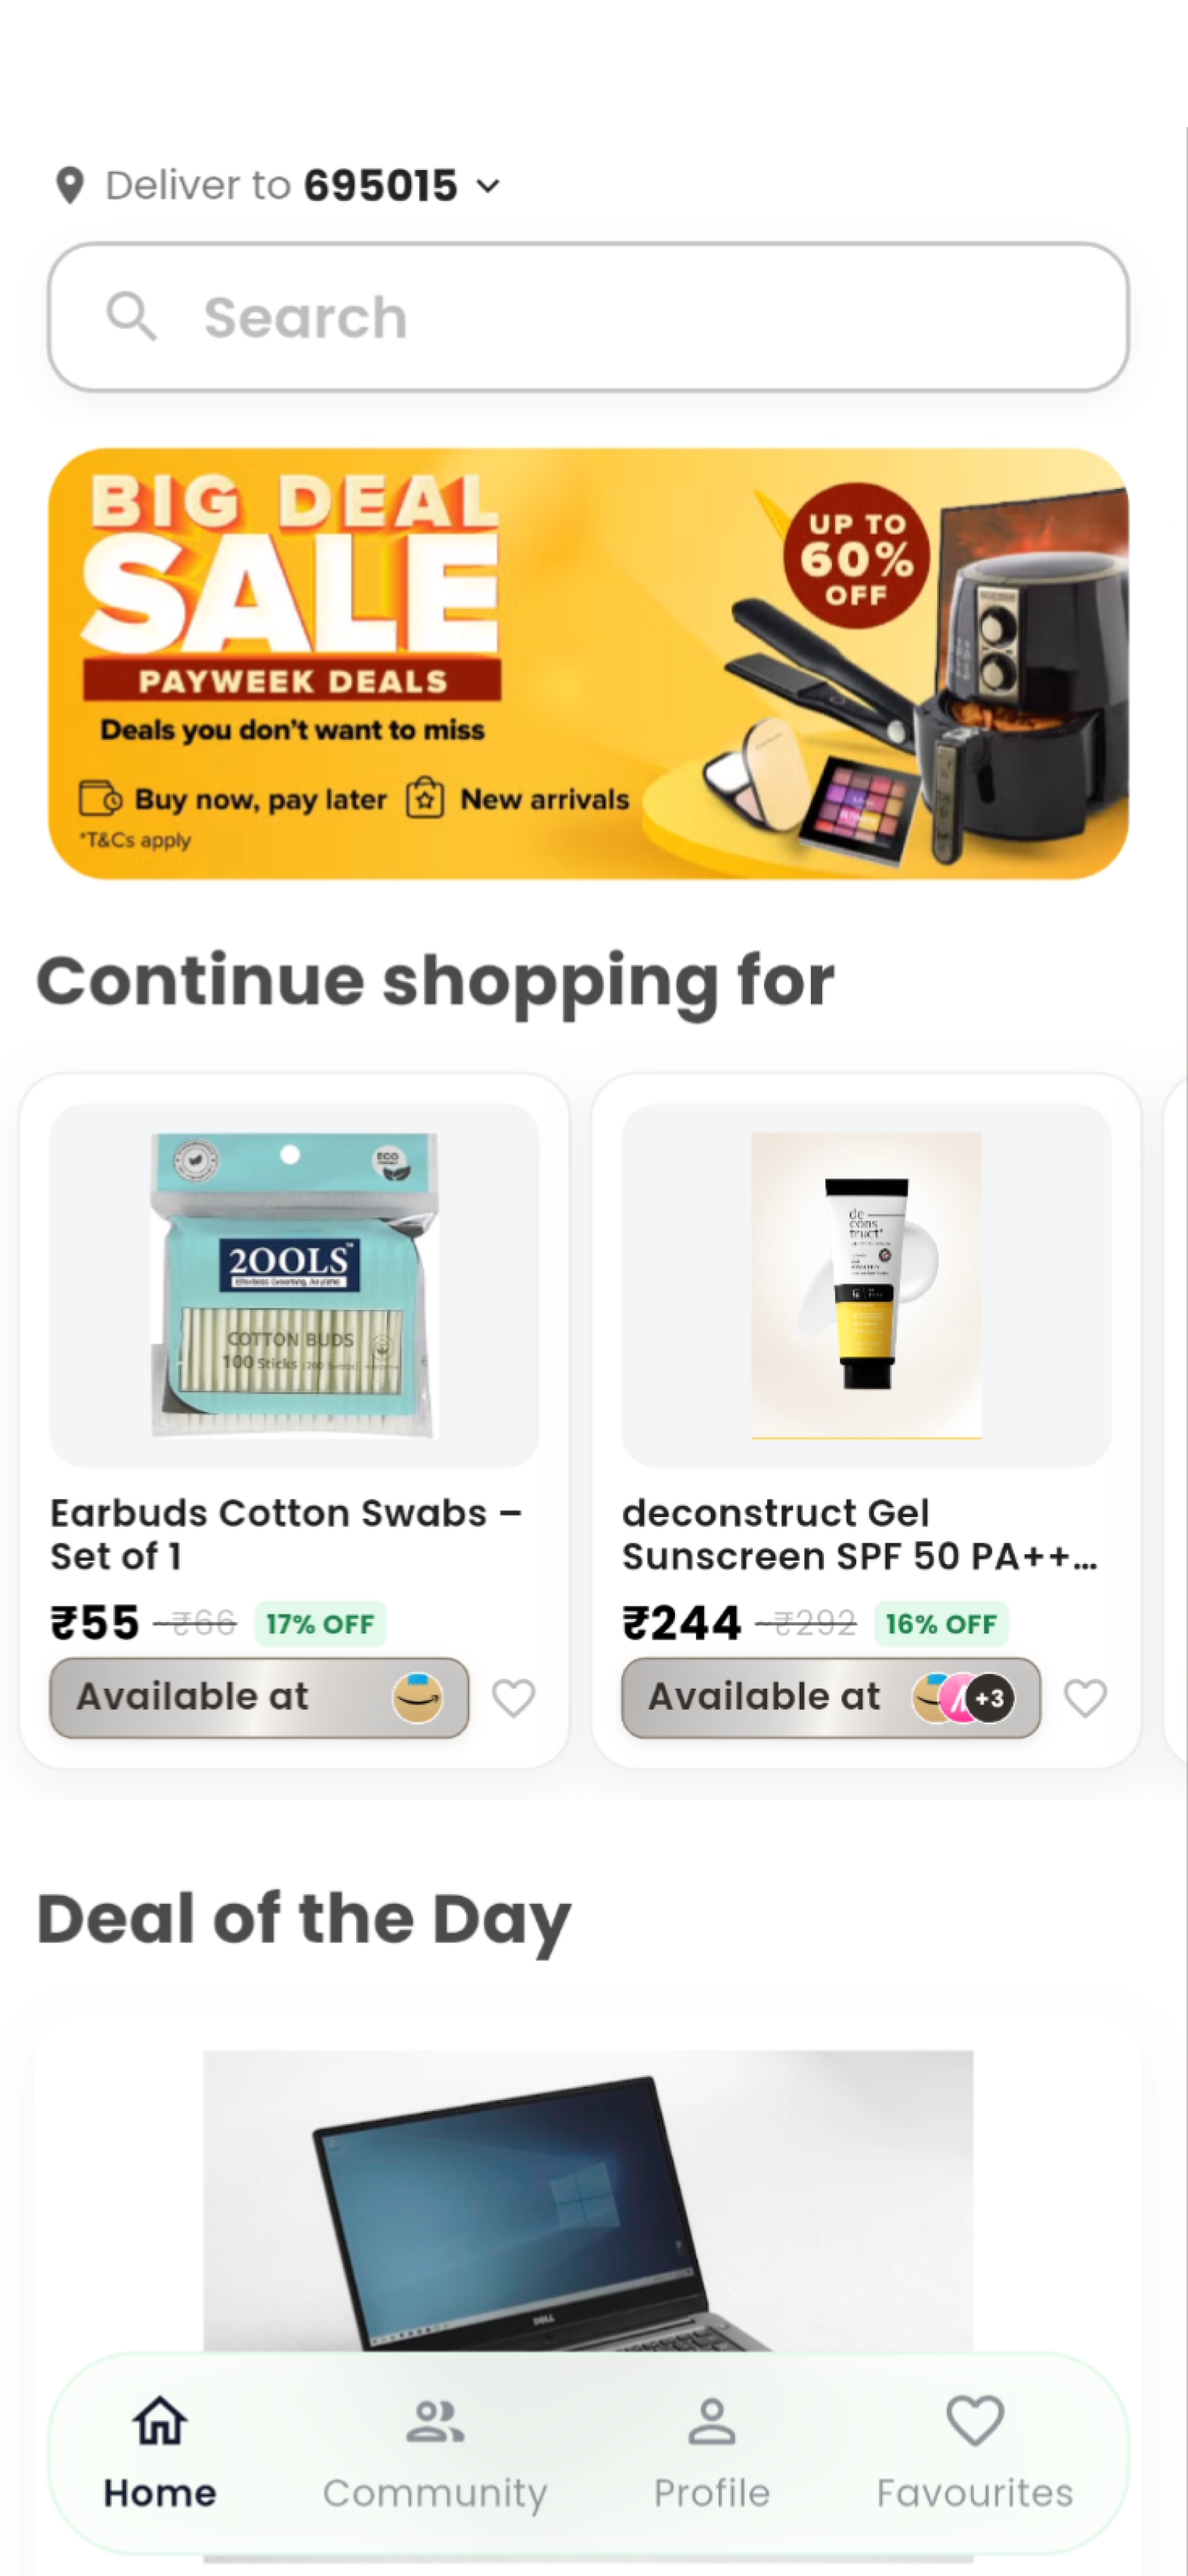
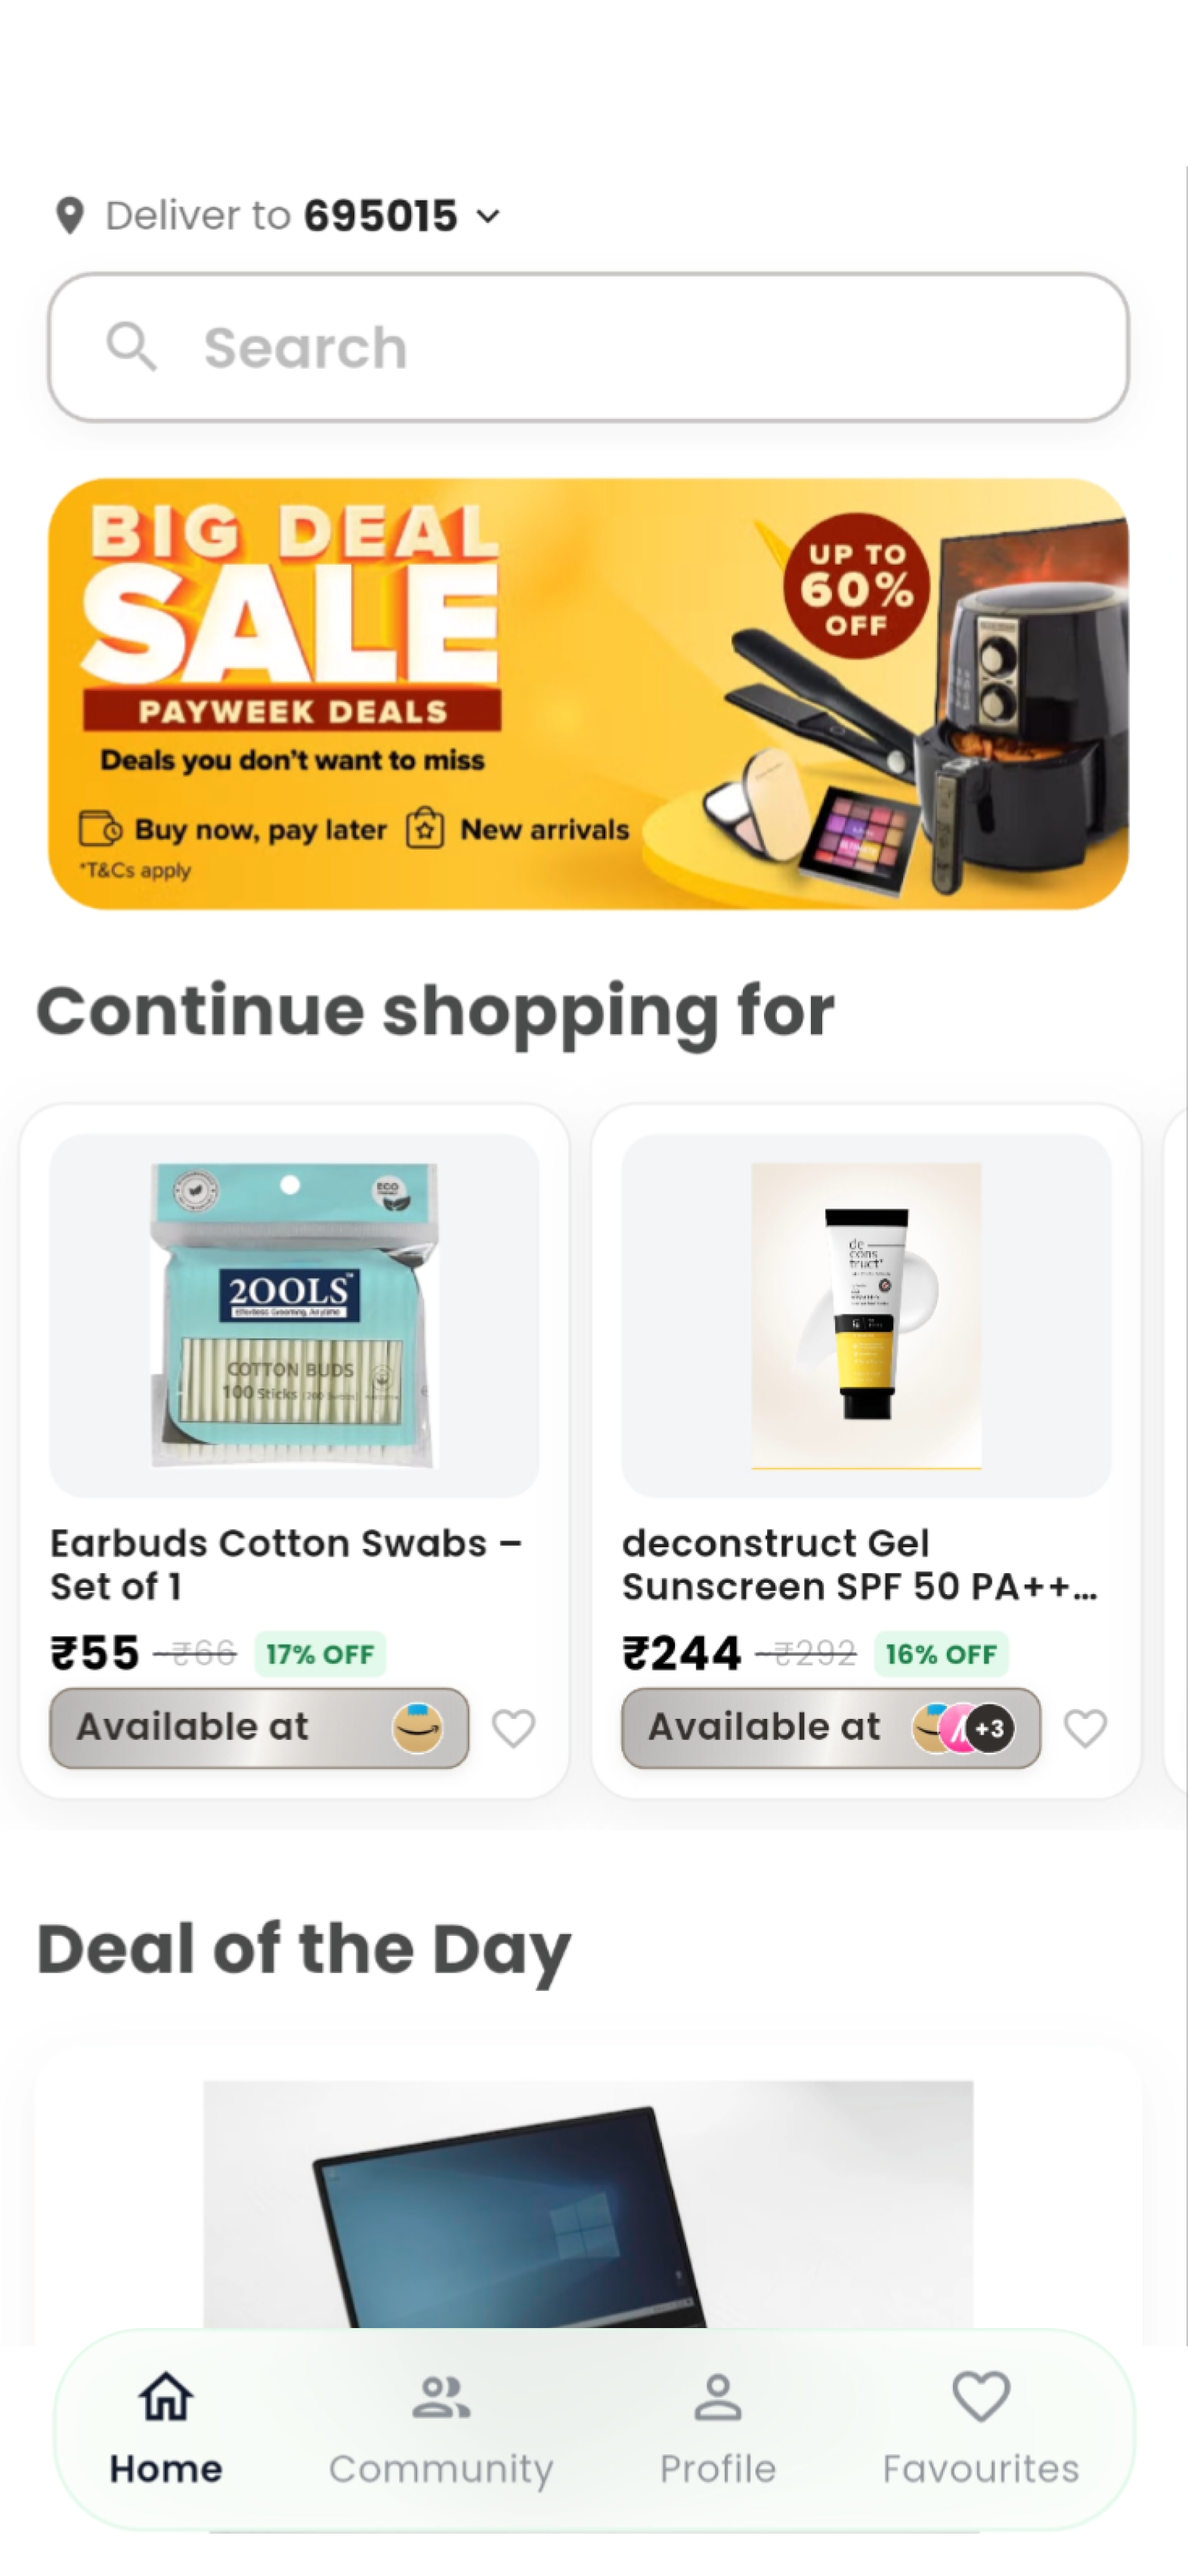
feat: streamline advantages table to 5 core capability rows and update fashion coverage description

diff --git a/index.html b/index.html
@@ -387,32 +387,6 @@
                         </tr>
                         <tr>
                             <td class="feature-name">
-                                AI Spec Verification
-                                <span class="feature-sub">e.g., matching 256GB vs 128GB, volume ml</span>
-                            </td>
-                            <td class="highlight-cell">
-                                <span class="check-icon">✓</span> <strong>Yes</strong>
-                                <span class="cell-detail">Gemini LLM + Embeddings</span>
-                            </td>
-                            <td>
-                                <span class="cross-icon">✕</span> <strong>No</strong>
-                                <span class="cell-detail">Rule-based regex / manual</span>
-                            </td>
-                            <td>
-                                <span class="partial-icon">⚠</span> <strong>Inconsistent</strong>
-                                <span class="cell-detail">Merchant feed dependent</span>
-                            </td>
-                            <td>
-                                <span class="cross-icon">✕</span> <strong>No</strong>
-                                <span class="cell-detail">ASIN / URL-level only</span>
-                            </td>
-                            <td>
-                                <span class="cross-icon">✕</span> <strong>N/A</strong>
-                                <span class="cell-detail">Single catalog only</span>
-                            </td>
-                        </tr>
-                        <tr>
-                            <td class="feature-name">
                                 Real-Time Cross-Store Search
                             </td>
                             <td class="highlight-cell">
@@ -442,7 +416,7 @@
                             </td>
                             <td class="highlight-cell">
                                 <span class="check-icon">✓</span> <strong>Deep</strong>
-                                <span class="cell-detail">Myntra, Nykaa, Ajio, Snapdeal</span>
+                                <span class="cell-detail">Myntra, Nykaa, Ajio, Snapdeal, and more platforms being added</span>
                             </td>
                             <td>
                                 <span class="partial-icon">⚠</span> <strong>Weak</strong>
@@ -509,81 +483,6 @@
                             <td>
                                 <span class="cross-icon">✕</span> <strong>Limited</strong>
                                 <span class="cell-detail">Wishlists only</span>
-                            </td>
-                        </tr>
-                        <tr>
-                            <td class="feature-name">
-                                App Performance & Latency
-                            </td>
-                            <td class="highlight-cell">
-                                <span class="check-icon">✓</span> <strong>Instant</strong>
-                                <span class="cell-detail">24h Excess Pool + Local First Cache</span>
-                            </td>
-                            <td>
-                                <span class="partial-icon">⚠</span> <strong>Standard</strong>
-                                <span class="cell-detail">API loading states</span>
-                            </td>
-                            <td>
-                                <span class="partial-icon">⚠</span> <strong>Standard</strong>
-                                <span class="cell-detail">Web search latency</span>
-                            </td>
-                            <td>
-                                <span class="partial-icon">⚠</span> <strong>Overhead</strong>
-                                <span class="cell-detail">Desktop browser extension</span>
-                            </td>
-                            <td>
-                                <span class="partial-icon">⚠</span> <strong>Heavy</strong>
-                                <span class="cell-detail">High payload / Heavy app</span>
-                            </td>
-                        </tr>
-                        <tr>
-                            <td class="feature-name">
-                                Ad Intrusiveness
-                            </td>
-                            <td class="highlight-cell">
-                                <span class="check-icon">✓</span> <strong>Clean</strong>
-                                <span class="cell-detail">User-first interface</span>
-                            </td>
-                            <td>
-                                <span class="partial-icon">⚠</span> <strong>High</strong>
-                                <span class="cell-detail">Heavy banner ads & popups</span>
-                            </td>
-                            <td>
-                                <span class="partial-icon">⚠</span> <strong>High</strong>
-                                <span class="cell-detail">Sponsored product dominance</span>
-                            </td>
-                            <td>
-                                <span class="partial-icon">⚠</span> <strong>Moderate</strong>
-                                <span class="cell-detail">Affiliate injection</span>
-                            </td>
-                            <td>
-                                <span class="partial-icon">⚠</span> <strong>Sponsored</strong>
-                                <span class="cell-detail">Native sponsored ads</span>
-                            </td>
-                        </tr>
-                        <tr>
-                            <td class="feature-name">
-                                Cross-Platform Availability
-                            </td>
-                            <td class="highlight-cell">
-                                <span class="check-icon">✓</span> <strong>Mobile & Web</strong>
-                                <span class="cell-detail">Flutter iOS/Android & Web</span>
-                            </td>
-                            <td>
-                                <span class="partial-icon">⚠</span> <strong>Limited</strong>
-                                <span class="cell-detail">Mostly Web / Basic Mobile Apps</span>
-                            </td>
-                            <td>
-                                <span class="partial-icon">⚠</span> <strong>Web / App</strong>
-                                <span class="cell-detail">Web & Google App</span>
-                            </td>
-                            <td>
-                                <span class="partial-icon">⚠</span> <strong>Extension</strong>
-                                <span class="cell-detail">Chrome / Firefox Extension</span>
-                            </td>
-                            <td>
-                                <span class="check-icon">✓</span> <strong>App & Web</strong>
-                                <span class="cell-detail">Mobile App & Web</span>
                             </td>
                         </tr>
                     </tbody>
